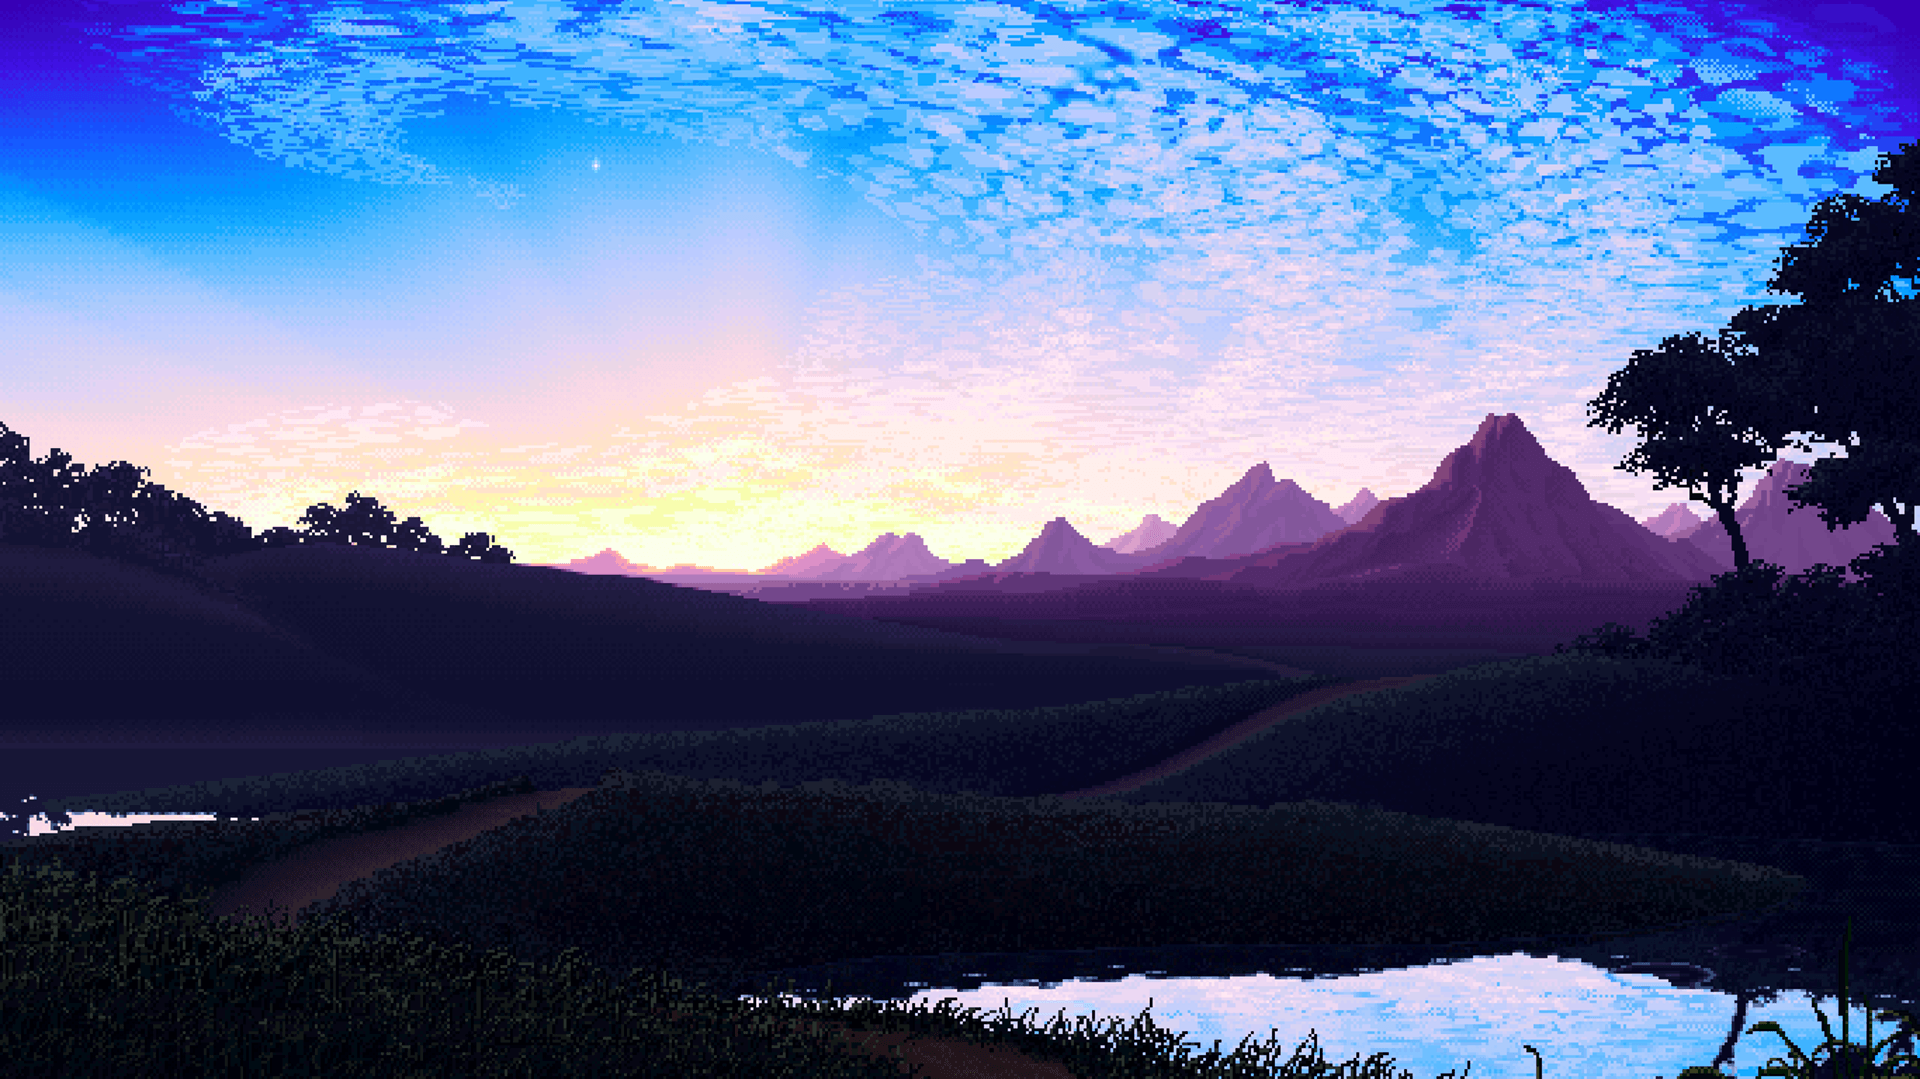
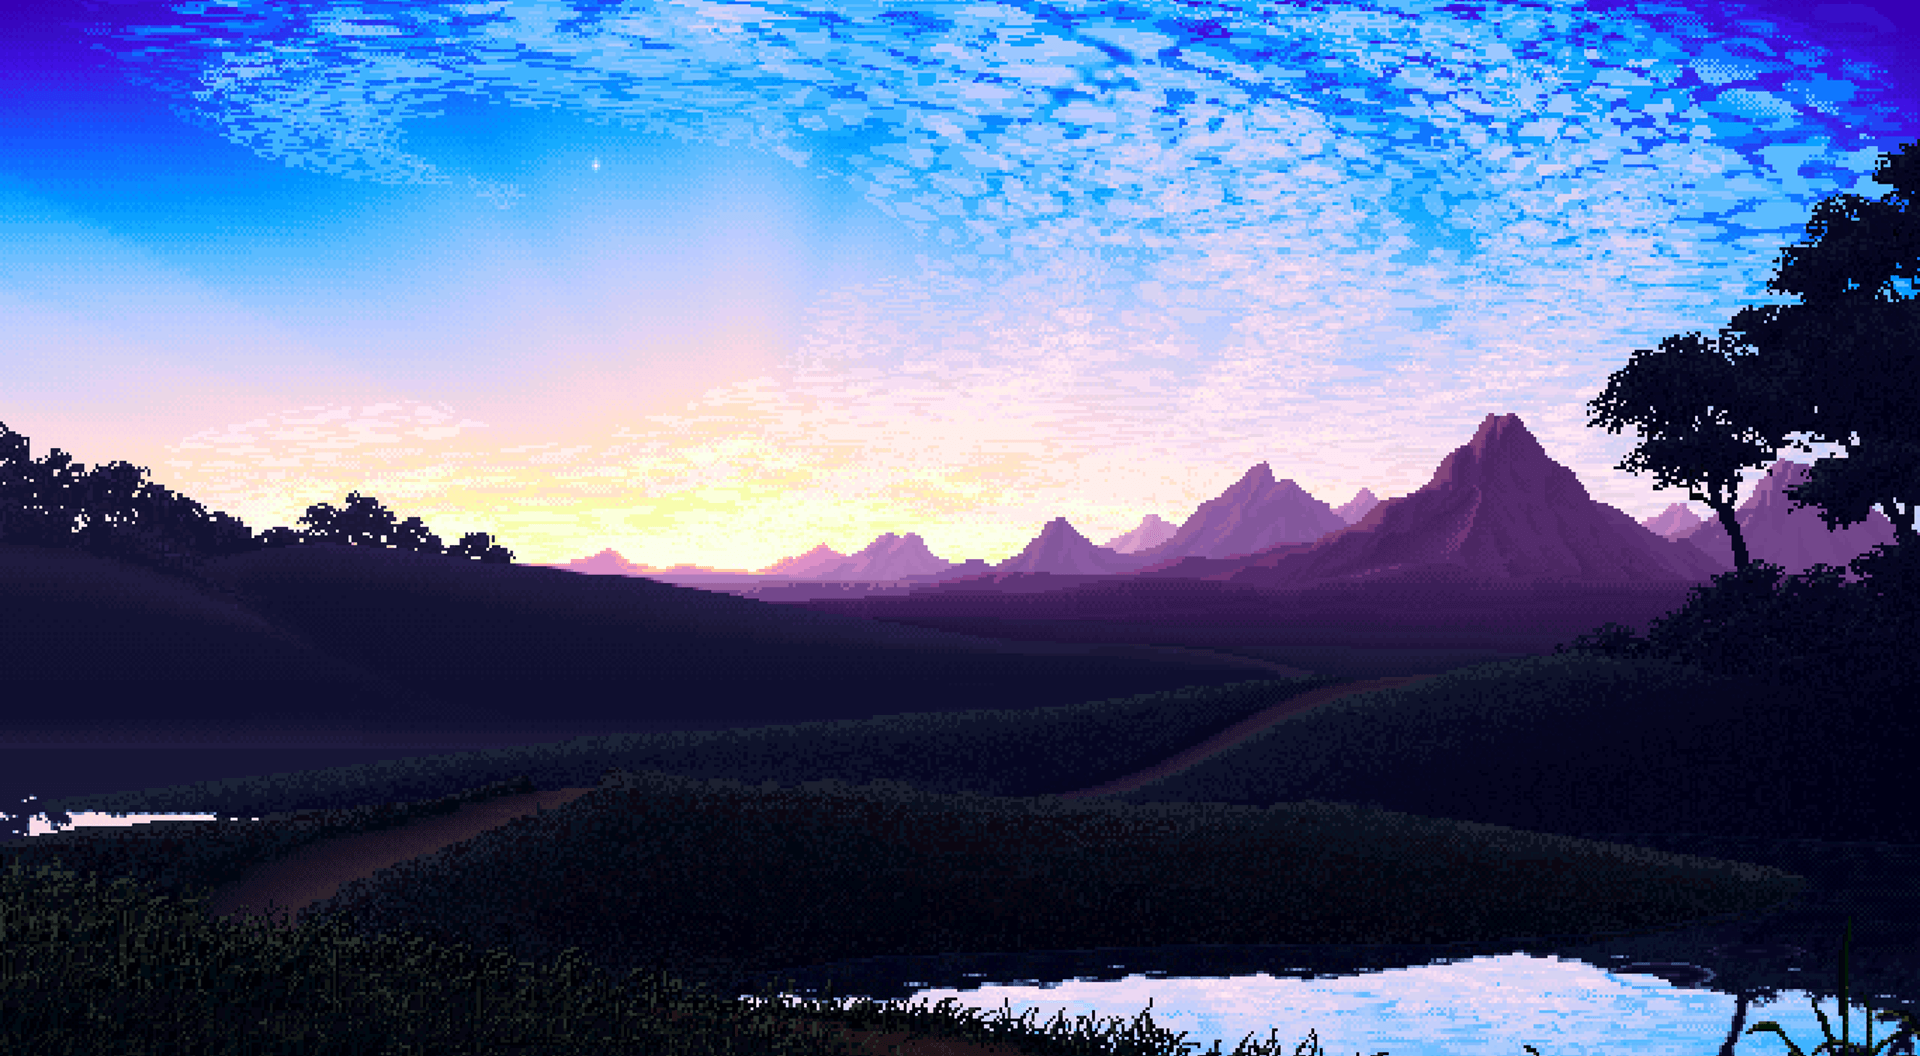
Ajustement de la vue avec concaténation des .fxml, passage dans un .java gérant la vue (pour load la map, permettra à terme également la mise à jour des textures), et fusion des deux controller en un global

diff --git a/src/main/java/fr/iut/hev/root/view/GlobalView.java b/src/main/java/fr/iut/hev/root/view/GlobalView.java
@@ -1,0 +1,67 @@
+package fr.iut.hev.root.view;
+
+import fr.iut.hev.root.model.Tile;
+import fr.iut.hev.root.model.TileMap;
+import fr.iut.hev.root.model.enums.TileTypes;
+import javafx.scene.image.Image;
+import javafx.scene.image.ImageView;
+import javafx.scene.layout.TilePane;
+
+import static fr.iut.hev.root.model.TileMap.format;
+
+public class GlobalView {
+
+    private TileMap tileMap;
+    private TilePane tileMapLand;
+    private TilePane tileMapBackground;
+
+    public GlobalView (TileMap tileMap,TilePane tileMapLand,TilePane tileMapBackground) {
+        this.tileMap = tileMap;
+        this.tileMapLand = tileMapLand;
+        this.tileMapBackground = tileMapBackground;
+    }
+
+    public void loadWorld() {
+        Tile currentTile;
+        ImageView tileBreakable;
+        ImageView tileBackground;
+        int index = 0;
+        for (int i = 0; i < this.tileMap.getHeight(); i++) {
+            for (int j = 0; j < this.tileMap.getWidth(); j++) {
+                currentTile = this.tileMap.getTile(j,i);
+                tileBreakable = new ImageView(getTexture(currentTile));
+                tileBackground = new ImageView(getTexture_background(currentTile));
+                tileBreakable.setId(Integer.toString(index));
+                tileBackground.setId(Integer.toString(index));
+                tileBreakable.setFitWidth(format);
+                tileBreakable.setFitHeight(format);
+                tileBackground.setFitWidth(format);
+                tileBackground.setFitHeight(format);
+                tileMapLand.getChildren().add(tileBreakable);
+                tileMapBackground.getChildren().add(tileBackground);
+                index++;
+            }
+        }
+    }
+
+    public Image getTexture(Tile tile) {
+        /**
+         * Retourne le sprite de la Tile en fonction des dégâts qu'elle a subit.
+         */
+        if (tile.getTile().getType() == TileTypes.AIR)
+            return null;
+        String path = "/fr/iut/hev/root/img/tile/".concat(tile.getTile().getName())./*concat(Integer.toString(damageAmount)).*/concat(".png");
+        return new Image(getClass().getResource(path).toExternalForm());
+    }
+
+    public Image getTexture_background(Tile tile) {
+        /**
+         * Retourne le sprite background de la Tile
+         */
+        if (tile.getTile().getType() == TileTypes.AIR)
+            return null;
+        String path = "/fr/iut/hev/root/img/tile/".concat(tile.getTile().getName()).concat("_background.png");
+        System.out.println(path);
+        return new Image(getClass().getResource(path).toExternalForm());
+    }
+}

diff --git a/src/main/java/fr/iut/hev/root/controller/GlobalController.java b/src/main/java/fr/iut/hev/root/controller/GlobalController.java
@@ -3,22 +3,36 @@ package fr.iut.hev.root.controller;
 import fr.iut.hev.root.model.FixedAnimationTimer;
 import fr.iut.hev.root.model.Player;
 import fr.iut.hev.root.model.TileMap;
-import javafx.animation.AnimationTimer;
+import fr.iut.hev.root.view.GlobalView;
 import javafx.fxml.FXML;
+import javafx.fxml.Initializable;
 import javafx.scene.image.ImageView;
+import javafx.scene.layout.TilePane;
 
-public class PlayerController {
-    private static TileMap tileMap;
+import java.net.URL;
+import java.util.ResourceBundle;
+
+public class GlobalController implements Initializable {
+
     private Player player;
+
+    @FXML
+    private TilePane backgroundTileMap;
+
+    @FXML
+    private TilePane tileMap;
 
     @FXML
     private ImageView player_imageview;
 
-    @FXML
-    public void initialize() {
+    @Override
+    public void initialize(URL url, ResourceBundle resourceBundle) {
+        TileMap tilemap = new TileMap(1920,1056);
+        GlobalView vue = new GlobalView(tilemap,tileMap,backgroundTileMap);
+        vue.loadWorld();
         player_imageview.sceneProperty().addListener((obs, oldScene, newScene) -> {
             if (newScene != null) {
-                player = new Player(newScene, tileMap, 0, -10, 32, 64, 2, 10);
+                player = new Player(newScene, tilemap, 0, -10, 32, 64, 2, 10);
                 player_imageview.translateXProperty().bind(player.posXProperty());
                 player_imageview.translateYProperty().bind(player.posYProperty());
                 player_imageview.scaleXProperty().bind(player.lookDirectionProperty());
@@ -31,9 +45,5 @@ public class PlayerController {
                 }.start();
             }
         });
-    }
-
-    public static void setTileMap(TileMap tilemap) {
-        tileMap = tilemap; // Peut etre erreur au niveau de l'ordre d'execution
     }
 }

diff --git a/src/main/java/fr/iut/hev/root/Main.java b/src/main/java/fr/iut/hev/root/Main.java
@@ -4,6 +4,7 @@ import javafx.application.Application;
 import javafx.fxml.FXMLLoader;
 import javafx.scene.Scene;
 import javafx.scene.image.ImageView;
+import javafx.scene.layout.Pane;
 import javafx.scene.layout.StackPane;
 import javafx.stage.Stage;
 
@@ -14,12 +15,7 @@ public class Main extends Application {
 //--enable-native-access=javafx.graphics
     @Override
     public void start(Stage stage) throws IOException {
-        StackPane root = new StackPane();
-        ImageView worldBackground = FXMLLoader.load(Main.class.getResource("view/world-background.fxml"));
-        StackPane land = FXMLLoader.load(Main.class.getResource("view/Stack-background+land.fxml"));
-        ImageView player  = FXMLLoader.load(Main.class.getResource("player.fxml"));
-        root.getChildren().addAll(worldBackground, land, player);
-        //scene = new Scene(root, 1920, 1072);
+        Pane root = FXMLLoader.load(Main.class.getResource("view/globalView.fxml"));
         scene = new Scene(root, 1920, 1056);
         stage.setTitle("ROOT");
         stage.setScene(scene);

diff --git a/src/main/java/fr/iut/hev/root/model/Tile.java b/src/main/java/fr/iut/hev/root/model/Tile.java
@@ -36,26 +36,6 @@ public class Tile {
         this.tile = tile;
     }
 
-    public Image getTexture(/*int damageAmount*/) {
-        /**
-         * Retourne le sprite de la Tile en fonction des dégâts qu'elle a subit.
-         */
-        if (this.tile.getType() == TileTypes.AIR)
-            return null;
-        String path = "/fr/iut/hev/root/img/tile/".concat(this.tile.getName())./*concat(Integer.toString(damageAmount)).*/concat(".png");
-        return new Image(getClass().getResource(path).toExternalForm());
-    }
-
-    public Image getTexture_background() {
-        /**
-         * Retourne le sprite background de la Tile
-         */
-        if (this.tile.getType() == TileTypes.AIR)
-            return null;
-        String path = "/fr/iut/hev/root/img/tile/".concat(this.tile.getName()).concat("_background.png");
-        return new Image(getClass().getResource(path).toExternalForm());
-    }
-
     public int getX() {
         return this.tileX;
     }
